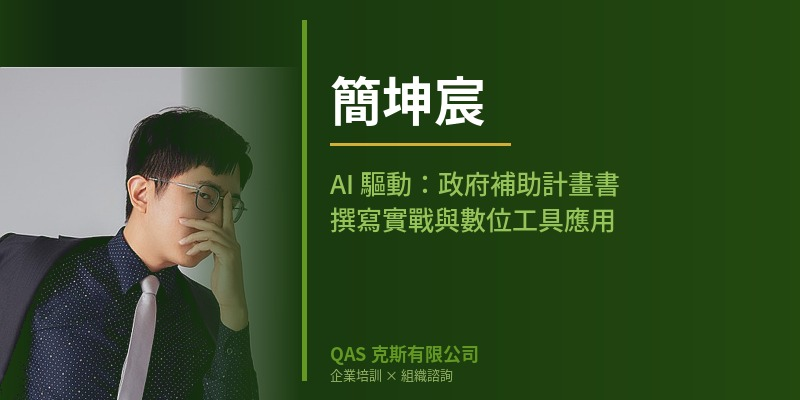
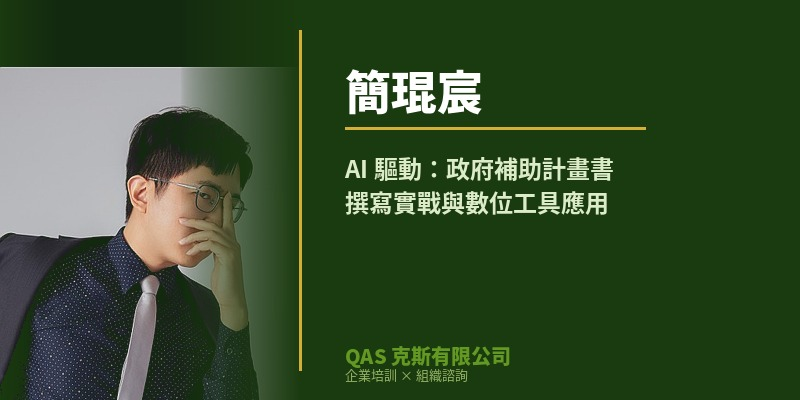
講師修改

Changed region(s): [[0.375, 0.06, 0.8125, 0.96]]

diff --git a/public/courses/course-950.html b/public/courses/course-950.html
@@ -427,7 +427,7 @@
       </div>
       <div class="hero-meta-item">
         <svg width="16" height="16" fill="none" stroke="currentColor" stroke-width="1.5" viewBox="0 0 24 24"><path d="M17 21v-2a4 4 0 0 0-4-4H5a4 4 0 0 0-4 4v2"/><circle cx="9" cy="7" r="4"/><path d="M23 21v-2a4 4 0 0 0-3-3.87"/><path d="M16 3.13a4 4 0 0 1 0 7.75"/></svg>
-        講師：黃裕安 ｜ 名額 30 人
+        講師：簡琨宸 ｜ 名額 30 人
       </div>
     </div>
   </div>
@@ -497,7 +497,7 @@
       </div>
       <div class="info-cell">
         <div class="info-cell-label">授課講師</div>
-        <div class="info-cell-value">黃裕安</div>
+        <div class="info-cell-value">簡琨宸</div>
       </div>
       <div class="info-cell">
         <div class="info-cell-label">招募名額</div>
